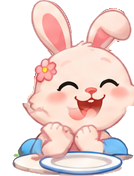
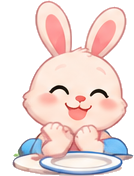
fix(picnic): Biscuit always gets just one; cleaner beaming faces
- Round 8 is 13 sandwiches for 4 friends, so Biscuit gets the one he asks
  for, as in every round; a test holds every round to that.
- The smiling head is fitted by size as well as position on a padded canvas,
  so no cheek is clipped and Raccoon has no double outline; the top of Fox's
  tail no longer hangs off as a stray line.
- Bunny's pale fur would not take another head cleanly, so she celebrates
  with her own smiling face.

diff --git a/games/picnic/src/logic/levels.test.ts b/games/picnic/src/logic/levels.test.ts
@@ -48,6 +48,13 @@ describe('the rounds', () => {
     }
   });
 
+  it('leave Biscuit just the one, every time: he only ever wants one', () => {
+    for (const { level, course } of shares) {
+      const left = course.count % level.friends.length;
+      if (left > 0) expect(left, level.id).toBe(1);
+    }
+  });
+
   it('bring Biscuit to the table only in the rounds where something is left over', () => {
     expect(LEVELS.filter(hasLeftovers).map((level) => level.id)).toEqual(['one-for-biscuit', 'nine-sandwiches', 'sandwich-stack']);
   });

diff --git a/games/picnic/src/logic/levels.data.ts b/games/picnic/src/logic/levels.data.ts
@@ -77,7 +77,7 @@ export const LEVELS: readonly LevelDef[] = [
     title: 'Sandwich Stack',
     line: 'Biscuit is hoping again',
     friends: ['teddy', 'bunny', 'fox', 'raccoon'],
-    courses: [{ kind: 'share', treat: 'sandwich', count: 14, mode: 'dial' }],
+    courses: [{ kind: 'share', treat: 'sandwich', count: 13, mode: 'dial' }],
   },
   {
     id: 'who-can-come',

diff --git a/scripts/cut-picnic.py b/scripts/cut-picnic.py
@@ -266,56 +266,76 @@ MOODS = ('eating', 'happy', 'puzzled', 'grumpy')
 # friend's eating picture is made from their happy picture, whose paws are
 # empty, wearing the eating face's big smile: the head, down to its neck (a
 # share of its height), placed where it lines up best.
-NECK = {'teddy': 0.64, 'bunny': 0.68, 'fox': 0.56, 'raccoon': 0.5}
+NECK = {'teddy': 0.64, 'fox': 0.56, 'raccoon': 0.5}
+# Bunny's pale fur does not take another head cleanly (a ghost of the old eyes
+# shows through): her eating picture is simply her happy one, already smiling.
+SMILES_ALREADY = {'bunny'}
+
+# Beside some eating faces, at neck height, is something that is not the head
+# — the top of Fox's tail — and would hang off the new picture as a stray line:
+# everything left of this share of the width, below this share of the height, goes.
+HEAD_LEFT = {'fox': (0.26, 0.48)}
+
+# The sizes the head is tried at, from a little smaller than the eating face to its own.
+HEAD_SCALES: dict = {}
 NECK_FEATHER = 14
 
 
 def beaming(board, friend):
     """The happy picture with the eating face's big smile, and nothing in its paws."""
-    eat = np.asarray(cut(board, SPRITES[f'{friend}-eating'])).astype(float)
-    body = np.asarray(cut(board, SPRITES[f'{friend}-happy'])).astype(float)
-    rows = int(eat.shape[0] * NECK[friend])
-    head = eat[:rows]
+    eat = cut(board, SPRITES[f'{friend}-eating'])
+    pad = 40
+    # Room around the body, so a head a little wider than the old one is never clipped.
+    body = np.pad(np.asarray(cut(board, SPRITES[f'{friend}-happy'])).astype(float), ((pad, pad), (pad, pad), (0, 0)))
+    body_solid = body[..., 3] > 128
+    rows_full = int(eat.height * NECK[friend])
+    best = None
+    # Where, and how big, the head sits best on the body: most of its outline
+    # over the body, least of the body's old head left outside it. The eating
+    # face is drawn a little larger than the happy one, so smaller sizes are tried.
+    for scale in HEAD_SCALES.get(friend, (0.84, 0.88, 0.92, 0.96, 1.0)):
+        size = (max(1, round(eat.width * scale)), max(1, round(eat.height * scale)))
+        head = np.asarray(eat.resize(size, Image.LANCZOS)).astype(float)[: round(rows_full * scale)].copy()
+        if friend in HEAD_LEFT:
+            left, below = HEAD_LEFT[friend]
+            head[round(head.shape[0] * below):, : round(head.shape[1] * left), 3] = 0
+        solid = head[..., 3] > 128
+        ys, xs = np.nonzero(solid)
+        rows = head.shape[0]
+        for dy in range(pad - 30, pad + 31, 2):
+            for dx in range(pad - 40, pad + 41, 2):
+                ty, tx = ys + dy, xs + dx
+                inside = (ty >= 0) & (ty < body.shape[0]) & (tx >= 0) & (tx < body.shape[1])
+                hit = body_solid[ty[inside], tx[inside]].mean()
+                # Ends of the head hanging off the body into thin air read as
+                # a stray line: count how much of the head's lower half is off the body.
+                low = ys >= rows * 0.55
+                hang = (~body_solid[ty[low & inside], tx[low & inside]]).mean() if (low & inside).any() else 0
+                covered = np.zeros(body.shape[:2], bool)
+                covered[ty[inside], tx[inside]] = True
+                top = max(0, rows + dy)
+                spill = (body_solid[:top] & ~covered[:top]).sum() / max(1, solid.sum())
+                score = hit - spill - hang * 0.5
+                if best is None or score > best[0]:
+                    best = (score, dx, dy, head)
+    _, dx, dy, head = best
+    rows = head.shape[0]
     solid = head[..., 3] > 128
     ys, xs = np.nonzero(solid)
-    # Where the head sits best on the body: most of its outline over the body,
-    # least of the body's old head left outside it.
-    best = None
-    for dy in range(-30, 31):
-        for dx in range(-40, 41):
-            ty, tx = ys + dy, xs + dx
-            inside = (ty >= 0) & (ty < body.shape[0]) & (tx >= 0) & (tx < body.shape[1])
-            if inside.mean() < 0.9:
-                continue
-            hit = (body[ty[inside], tx[inside], 3] > 128).mean()
-            covered = np.zeros(body.shape[:2], bool)
-            covered[ty[inside], tx[inside]] = True
-            top = max(0, rows + dy)
-            spill = ((body[:top, :, 3] > 128) & ~covered[:top]).sum() / max(1, solid.sum())
-            if best is None or hit - spill > best[0]:
-                best = (hit - spill, dx, dy)
-    _, dx, dy = best
     result = body.copy()
     # The old head is cleared wherever the new one does not cover it, above
     # where the new one fades into the body, so no old ear or cheek peeks out.
     placed = np.zeros(body.shape[:2], np.uint8)
-    ty, tx = ys + dy, xs + dx
-    inside = (ty >= 0) & (ty < body.shape[0]) & (tx >= 0) & (tx < body.shape[1])
-    placed[ty[inside], tx[inside]] = 255
+    placed[ys + dy, xs + dx] = 255
     placed = np.asarray(Image.fromarray(placed).filter(ImageFilter.MaxFilter(3))) > 0
     clear = np.zeros(body.shape[:2], bool)
-    clear[:max(0, rows + dy - NECK_FEATHER - 2)] = True
+    clear[: max(0, rows + dy - NECK_FEATHER - 2)] = True
     result[clear & ~placed, 3] = 0
     fade = np.ones(rows)
     fade[-NECK_FEATHER:] = np.linspace(1, 0, NECK_FEATHER)
     for y in range(rows):
-        to_y = y + dy
-        if not 0 <= to_y < body.shape[0]:
-            continue
         for x in range(head.shape[1]):
-            to_x = x + dx
-            if not 0 <= to_x < body.shape[1]:
-                continue
+            to_y, to_x = y + dy, x + dx
             a = head[y, x, 3] / 255 * fade[y]
             # Where the head fades into the body, only over the body: never a
             # faint fringe left hanging beside it.
@@ -365,7 +385,12 @@ def main():
     board = prepare(sheet)
     for name, box in SPRITES.items():
         friend, _, mood = name.partition('-')
-        sprite = beaming(board, friend) if mood == 'eating' and friend in NECK else cut(board, box)
+        if mood == 'eating' and friend in NECK:
+            sprite = beaming(board, friend)
+        elif mood == 'eating' and friend in SMILES_ALREADY:
+            sprite = cut(board, SPRITES[f'{friend}-happy'])
+        else:
+            sprite = cut(board, box)
         if name in LARGEST_ONLY:
             sprite = largest_part(sprite)
         if '-' in name and name.split('-')[1] in MOODS:

diff --git a/docs/superpowers/specs/2026-11-26-picnic-pals-design.md b/docs/superpowers/specs/2026-11-26-picnic-pals-design.md
@@ -55,7 +55,7 @@ A share that would run out is never made: the preview shows why, and the
 child turns the dial down.
 
 **A course ends** when the basket cannot give everyone one more. If it is
-empty, that is it; if some are left — only ever fewer than there are friends —
+empty, that is it; if some are left — every round leaves him exactly one —
 they fly into Biscuit's bowl, just as treats fly to plates, and he hops and
 eats: that is how remainders are met. While the dial is set, the ghosts show
 what a share would leave in his bowl too.
@@ -99,7 +99,7 @@ earns at least one star. Best stars per round are kept in `host.storage`.
 | 5 | The Dial | Teddy, Bunny, Fox | 9 cookies, dial | Sharing into 3 |
 | 6 | Three Plates | Teddy, Bunny, Fox | 12 strawberries, dial | Groups of 4 |
 | 7 | Four Friends | all four | 16 grapes, dial | Sharing into 4 |
-| 8 | Sandwich Stack | all four | 14 sandwiches, dial | Groups and a remainder |
+| 8 | Sandwich Stack | all four | 13 sandwiches, dial | Groups, and one for Biscuit |
 | 9 | Who Can Come? | Teddy, and who he invites | 9 cookies, inviting | Reverse: how many can share |
 | 10 | Pizza Halves | Teddy, Bunny | a pizza, one cut | Halves |
 | 11 | Cake Quarters | all four | a cake, two cuts | Quarters |
